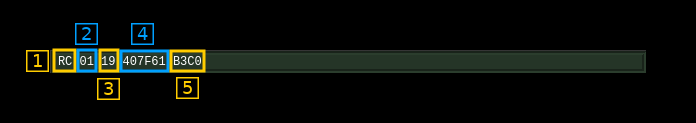
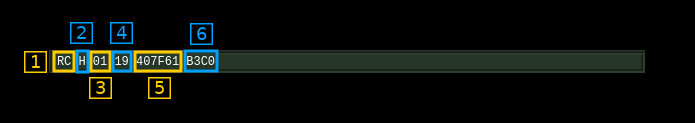
DSD demod: NXDN: updated documentation

Changed region(s): [[0.0302, 0.3902, 0.3324, 0.8293], [0.0906, 0.1707, 0.2417, 0.3659], [0.2719, 0.1707, 0.3324, 0.3659]]

diff --git a/plugins/channelrx/demoddsd/readme.md b/plugins/channelrx/demoddsd/readme.md
@@ -307,19 +307,26 @@ This is the control channel used in trunked systems and is usually sent continuo
 
 This is `RC` for RCCH
 
-<h6>A11.5.1.2: RAN number</h5>
+<h6>A11.5.2.2: Half/full rate</h5>
+
+Indicator of transmission rate:
+
+  - `H`: half rate (2400 or 4800 S/s). Uses EHR vocoder (AMBE 3600/2450)
+  - `F`: full rate (4800 S/s only). Uses EFR vocoder (AMBE 7200/4400)
+
+<h6>A11.5.1.3: RAN number</h5>
 
 This is the RAN number (0 to 63) associated to the transmission. RAN stands for "Radio Access Number" and for trunked systems this is the site identifier (Site Id) modulo 64.
 
-<h6>A11.5.1.3: Last message type code</h5>
+<h6>A11.5.1.4: Last message type code</h5>
 
 This is the type code of the last message (6 bits) displayed in hexadecimal. The complete list is found in the NXDN documentation `NXDN TS 1-A Version 1.3` section 6.
 
-<h6>A11.5.1.4: Location Id</h5>
+<h6>A11.5.1.5: Location Id</h5>
 
 This is the 3 byte location Id associated to the site displayed in hexadecimal
 
-<h6>A11.5.1.5: Services available flags</h5>
+<h6>A11.5.1.6: Services available flags</h5>
 
 This is a 16 bit collection of flags to indicate which services are available displayed in hexadecimal. The breakdown is listed in the NXDN documentation `NXDN TS 1-A Version 1.3` section 6.5.33. From MSB to LSB:
 
@@ -350,22 +357,29 @@ This is the transmission channel either in a trunked system (RTCH) or convention
 
 It can be either `RT` for RTCH or `RD` for a RDCH channel
 
-<h6>A11.5.2.2: RAN number</h5>
+<h6>A11.5.2.2: Half/full rate</h5>
+
+Indicator of transmission rate:
+
+  - `H`: half rate (2400 or 4800 S/s). Uses EHR vocoder (AMBE 3600/2450)
+  - `F`: full rate (4800 S/s only). Uses EFR vocoder (AMBE 7200/4400)
+
+<h6>A11.5.2.3: RAN number</h5>
 
 This is the RAN number (0 to 63) associated to the transmission. RAN stands for "Radio Access Number" and has a different usage in conventional or trunked systems:
 
   - Conventional (RDCH): this is used as a selective squelch. Code `0` means always unmute.
   - Trunked (RTCH): this is the site identifier (Site Id) modulo 64.
 
-<h6>A11.5.2.3: Last message type code</h5>
+<h6>A11.5.2.4: Last message type code</h5>
 
 This is the type code of the last message (6 bits) displayed in hexadecimal. The complete list is found in the NXDN documentation `NXDN TS 1-A Version 1.3` section 6.
 
-<h6>A11.5.2.4: Source Id</h5>
+<h6>A11.5.2.5: Source Id</h5>
 
 This is the source of transmission identification code on two bytes (0 to 65353) displayed in decimal.
 
-<h6>A11.5.2.5: Destination Id</h5>
+<h6>A11.5.2.6: Destination Id</h5>
 
 This is the destination of transmission identification code on two bytes (0 to 65353) displayed in decimal. It is prefixed by a group call indicator:
 
